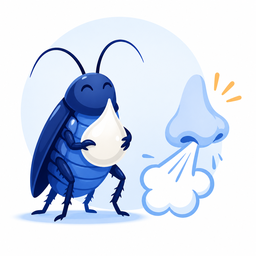
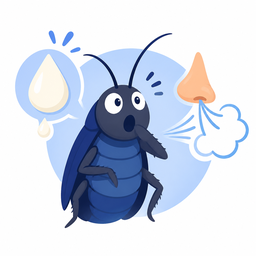
public sync from private eac44d2dcac4
Private-Source: eac44d2dcac4747da9b20761fc8d34ed62bbc04b

diff --git a/user_test/ig_nobel_2026_e2e_03/index.html b/user_test/ig_nobel_2026_e2e_03/index.html
@@ -1,4 +1,4 @@
-<!DOCTYPE html><html lang='ja'><head><meta charset='utf-8'><title>ゴキブリの乳に仰天、鼻の「フンッ」に納得 試聴ページ</title><meta name='viewport' content='width=device-width, initial-scale=1'><style>body{font-family:sans-serif;max-width:1100px;margin:1em auto;padding:0 1em;line-height:1.5}table{border-collapse:collapse;width:100%;margin-bottom:1.5em}th,td{border:1px solid #ccc;padding:6px;vertical-align:top;text-align:left}td.play{min-width:340px}td.play audio,audio{width:100%}.sec{color:#666;font-size:.85em}.script{background:#f6f6f6;padding:4px;margin:3px 0;font-size:.95em;white-space:pre-wrap}.kp td,.kp th{border:1px solid #ccc;padding:4px 10px}.combo{background:#eef6ff;padding:10px;border:1px solid #99c;margin-bottom:1em}.playall{font-size:1.1em;padding:8px 18px;margin-bottom:8px;cursor:pointer}.note{background:#fff8e0;padding:8px;border:1px solid #cb8;margin-bottom:1em}nav a{margin-right:1.2em;font-weight:bold}details.aux{background:#fafafa;border:1px solid #ddd;padding:6px 10px;margin:1em 0}</style><style>.lk1,.lk2,.lk3{font-size:inherit;color:inherit;background:none}.lk1{font-weight:700;text-decoration-line:underline;text-decoration-style:double;-webkit-text-decoration-line:underline;-webkit-text-decoration-style:double;text-underline-offset:3px}.lk2{font-weight:700;text-decoration-line:underline;text-decoration-style:solid;-webkit-text-decoration-line:underline;-webkit-text-decoration-style:solid;text-underline-offset:2px}.lk3{font-weight:inherit;text-decoration-line:underline;text-decoration-style:solid;-webkit-text-decoration-line:underline;-webkit-text-decoration-style:solid;text-underline-offset:2px}ul.lk-meaning{margin:4px 0 8px 1.2em;padding:0;font-size:.9em}p.lk-legend{font-size:.85em;margin:4px 0}</style></head><body><h1>ゴキブリの乳に仰天、鼻の「フンッ」に納得 試聴ページ</h1><nav><a href='#std'>Standard</a><a href='#adv'>Advanced</a></nav><div class='note'><b>状態: 完成版・ユーザー試聴待ち</b>(試聴PASSは未取得です)。上のリンクでレベルを切り替えられます。</div><p class="lk-legend">本文の下線: <strong class="lk1">太字+二重下線</strong> = 重要表現 / <strong class="lk2">太字+下線</strong> = 追加の解説つき表現 / <span class="lk3">下線のみ</span> = 意味を下の一覧で確認</p><p class='rpt-legend' style='font-size:12px;color:#444;margin:6px 0'>表示の見方: &#9208;=音声のChunk分割位置 / <span style='color:#c00000;font-weight:700;text-decoration:underline'>赤</span>=Local Rewrite(変更箇所。変更前後の英文は下の注記) / <span style='color:#0a2a6b;font-weight:600'>濃い青</span>=Fallback(適用範囲全体。Style名は下の注記)</p><h2 id='std'>Standard(通し全編 318秒)</h2><div class='combo'><button class='playall' data-target='main_std'>&#9654; Standard 全編を通し再生</button><br><audio id='main_std' controls preload='none' src='audio/ig_nobel_2026_standard.mp3'></audio></div><table><thead><tr><th>パート</th><th>音声</th><th>Script / Key Phrase</th></tr></thead><tbody><tr><td><b>Intro</b><br><span class='sec'>0.0秒〜 (10.7秒)</span><br><button class='jump' data-target='main_std' data-t='0.0'>全編のこの位置へ</button></td><td class='play'><audio controls preload='none' src='audio/std_00.mp3'></audio></td><td><span class='sec'>効果音・音楽(読み上げなし)</span></td></tr><tr><td><b>Welcome</b><br><span class='sec'>10.7秒〜 (1.9秒)</span><br><button class='jump' data-target='main_std' data-t='10.736'>全編のこの位置へ</button></td><td class='play'><audio controls preload='none' src='audio/std_01.mp3'></audio></td><td><span class='sec'>定型の案内音声</span></td></tr><tr><td><b>Topic intro</b><br><span class='sec'>13.1秒〜 (7.2秒)</span><br><button class='jump' data-target='main_std' data-t='13.126'>全編のこの位置へ</button></td><td class='play'><audio controls preload='none' src='audio/std_02.mp3'></audio></td><td><div class='script'>Today&#x27;s topic is Cockroach Milk Surprises Us, and <span class='rpt-lr' style='color:#c00000;font-weight:700;text-decoration:underline'>the Pff You Make When You Blow Your Nose</span>” Makes Sense.</div><div class='rpt-notes' style='font-size:12px;margin:2px 0 8px'><div class='rpt-note rpt-note-lr' style='color:#c00000;margin:2px 0'><b>Local Rewrite 適用</b>(範囲: Topic intro。この行の本文全体)<br>変更前: Today&#x27;s topic is Cockroach Milk Surprises Us, and <span class='rpt-lr-before' style='color:#c00000;text-decoration:line-through'>a Nose-Blowing Pff</span> Makes Sense.<br>変更後: Today&#x27;s topic is Cockroach Milk Surprises Us, and <span class='rpt-lr' style='color:#c00000;font-weight:700;text-decoration:underline'>the Pff You Make When You Blow Your Nose</span> Makes Sense.<br>変更語句: a Nose-Blowing Pff → the Pff You Make When You Blow Your Nose</div></div></td></tr><tr><td><b>Japanese title</b><br><span class='sec'>21.0秒〜 (4.0秒)</span><br><button class='jump' data-target='main_std' data-t='20.976'>全編のこの位置へ</button></td><td class='play'><audio controls preload='none' src='audio/std_03.mp3'></audio></td><td><div class='script'>ゴキブリの乳に仰天、鼻の「フンッ」に納得</div></td></tr><tr><td><b>Notification 1</b><br><span class='sec'>25.5秒〜 (2.0秒)</span><br><button class='jump' data-target='main_std' data-t='25.476'>全編のこの位置へ</button></td><td class='play'><audio controls preload='none' src='audio/std_04.mp3'></audio></td><td><span class='sec'>効果音・音楽(読み上げなし)</span></td></tr><tr><td><b>Preview intro</b><br><span class='sec'>27.9秒〜 (1.2秒)</span><br><button class='jump' data-target='main_std' data-t='27.916'>全編のこの位置へ</button></td><td class='play'><audio controls preload='none' src='audio/std_05.mp3'></audio></td><td><span class='sec'>定型の案内音声</span></td></tr><tr><td><b>Preview</b><br><span class='sec'>29.8秒〜 (16.6秒)</span><br><button class='jump' data-target='main_std' data-t='29.806'>全編のこの位置へ</button></td><td class='play'><audio controls preload='none' src='audio/std_06.mp3'></audio></td><td><div class='script'>イグ・ノーベル賞には、聞くと思わず笑ってしまう研究が登場します。でも、笑える題材を科学者が調べるのはなぜでしょうか。今回は、意外な研究が私たちに何を考えさせるのかを見ていきます。</div></td></tr><tr><td><b>Notification 2</b><br><span class='sec'>46.9秒〜 (2.0秒)</span><br><button class='jump' data-target='main_std' data-t='46.946'>全編のこの位置へ</button></td><td class='play'><audio controls preload='none' src='audio/std_07.mp3'></audio></td><td><span class='sec'>効果音・音楽(読み上げなし)</span></td></tr><tr><td><b>Key phrases intro</b><br><span class='sec'>49.4秒〜 (2.0秒)</span><br><button class='jump' data-target='main_std' data-t='49.386'>全編のこの位置へ</button></td><td class='play'><audio controls preload='none' src='audio/std_08.mp3'></audio></td><td><span class='sec'>定型の案内音声</span></td></tr><tr><td><b>Key Phrase 1</b><br><span class='sec'>51.9秒〜 (8.9秒)</span><br><button class='jump' data-target='main_std' data-t='51.886'>全編のこの位置へ</button></td><td class='play'><audio controls preload='none' src='audio/std_09.mp3'></audio></td><td><table class='kp'><tr><th>英語</th><th>日本語の意味</th></tr><tr><td>lean in</td><td>関心を向けて身を乗り出す</td></tr></table></td></tr><tr><td><b>Key Phrase 2</b><br><span class='sec'>60.8秒〜 (8.8秒)</span><br><button class='jump' data-target='main_std' data-t='60.766'>全編のこの位置へ</button></td><td class='play'><audio controls preload='none' src='audio/std_10.mp3'></audio></td><td><table class='kp'><tr><th>英語</th><th>日本語の意味</th></tr><tr><td>close to home</td><td>自分に関係が深く感じられる</td></tr></table></td></tr><tr><td><b>Key Phrase 3</b><br><span class='sec'>69.6秒〜 (7.5秒)</span><br><button class='jump' data-target='main_std' data-t='69.576'>全編のこの位置へ</button></td><td class='play'><audio controls preload='none' src='audio/std_11.mp3'></audio></td><td><table class='kp'><tr><th>英語</th><th>日本語の意味</th></tr><tr><td>feature</td><td>～を取り上げる</td></tr></table></td></tr><tr><td><b>Notification 3</b><br><span class='sec'>77.1秒〜 (2.0秒)</span><br><button class='jump' data-target='main_std' data-t='77.086'>全編のこの位置へ</button></td><td class='play'><audio controls preload='none' src='audio/std_12.mp3'></audio></td><td><span class='sec'>効果音・音楽(読み上げなし)</span></td></tr><tr><td><b>Full story intro</b><br><span class='sec'>79.5秒〜 (1.8秒)</span><br><button class='jump' data-target='main_std' data-t='79.526'>全編のこの位置へ</button></td><td class='play'><audio controls preload='none' src='audio/std_13.mp3'></audio></td><td><span class='sec'>定型の案内音声</span></td></tr><tr><td><b>Comment 1</b><br><span class='sec'>82.4秒〜 (6.1秒)</span><br><button class='jump' data-target='main_std' data-t='82.356'>全編のこの位置へ</button></td><td class='play'><audio controls preload='none' src='audio/std_14.mp3'></audio></td><td><div class='script'>ゴキブリのミルクについて、研究者たちが何を調べたのかに注目してください。</div></td></tr><tr><td><b>Full Story Part 1</b><br><span class='sec'>89.3秒〜 (73.7秒)</span><br><button class='jump' data-target='main_std' data-t='89.286'>全編のこの位置へ</button></td><td class='play'><audio controls preload='none' src='audio/std_15.mp3'></audio></td><td><div class='script'>Cockroach milk and how to blow your nose. Seeing these words together may make you ask, “Can these topics really go together?” Both were subjects of research <strong class="lk1" data-hl="p_556c98354e">featured</strong> at this year’s Ig Nobel Prize. The names make you laugh. Then you <strong class="lk1" data-hl="p_c520513e91">lean in</strong> to hear the story. So first, let’s look inside a cockroach’s belly. <span class='chunk-mark'>&#9208;</span>
+<!DOCTYPE html><html lang='ja'><head><meta charset='utf-8'><title>ゴキブリの乳に仰天、鼻の「フンッ」に納得 試聴ページ</title><meta name='viewport' content='width=device-width, initial-scale=1'><style>body{font-family:sans-serif;max-width:1100px;margin:1em auto;padding:0 1em;line-height:1.5}table{border-collapse:collapse;width:100%;margin-bottom:1.5em}th,td{border:1px solid #ccc;padding:6px;vertical-align:top;text-align:left}td.play{min-width:340px}td.play audio,audio{width:100%}.sec{color:#666;font-size:.85em}.script{background:#f6f6f6;padding:4px;margin:3px 0;font-size:.95em;white-space:pre-wrap}.kp td,.kp th{border:1px solid #ccc;padding:4px 10px}.combo{background:#eef6ff;padding:10px;border:1px solid #99c;margin-bottom:1em}.playall{font-size:1.1em;padding:8px 18px;margin-bottom:8px;cursor:pointer}.note{background:#fff8e0;padding:8px;border:1px solid #cb8;margin-bottom:1em}nav a{margin-right:1.2em;font-weight:bold}details.aux{background:#fafafa;border:1px solid #ddd;padding:6px 10px;margin:1em 0}</style><style>.lk1,.lk2,.lk3{font-size:inherit;color:inherit;background:none}.lk1{font-weight:700;text-decoration-line:underline;text-decoration-style:double;-webkit-text-decoration-line:underline;-webkit-text-decoration-style:double;text-underline-offset:3px}.lk2{font-weight:700;text-decoration-line:underline;text-decoration-style:solid;-webkit-text-decoration-line:underline;-webkit-text-decoration-style:solid;text-underline-offset:2px}.lk3{font-weight:inherit;text-decoration-line:underline;text-decoration-style:solid;-webkit-text-decoration-line:underline;-webkit-text-decoration-style:solid;text-underline-offset:2px}ul.lk-meaning{margin:4px 0 8px 1.2em;padding:0;font-size:.9em}p.lk-legend{font-size:.85em;margin:4px 0}</style></head><body><h1>ゴキブリの乳に仰天、鼻の「フンッ」に納得 試聴ページ</h1><nav><a href='#std'>Standard</a><a href='#adv'>Advanced</a></nav><div class='note'><b>状態: 完成版・ユーザー試聴待ち</b>(試聴PASSは未取得です)。上のリンクでレベルを切り替えられます。</div><p class="lk-legend">本文の下線: <strong class="lk1">太字+二重下線</strong> = 重要表現 / <strong class="lk2">太字+下線</strong> = 追加の解説つき表現 / <span class="lk3">下線のみ</span> = 意味を下の一覧で確認</p><p class='rpt-legend' style='font-size:12px;color:#444;margin:6px 0'>表示の見方: &#9208;=音声のChunk分割位置 / <span style='color:#c00000;font-weight:700;text-decoration:underline'>赤</span>=Local Rewrite(変更箇所。変更前後の英文は下の注記) / <span style='color:#0a2a6b;font-weight:600'>濃い青</span>=Fallback(適用範囲全体。Style名は下の注記)</p><h2 id='std'>Standard(通し全編 318秒)</h2><div class='combo'><button class='playall' data-target='main_std'>&#9654; Standard 全編を通し再生</button><br><audio id='main_std' controls preload='none' src='audio/ig_nobel_2026_standard.mp3'></audio></div><table><thead><tr><th>パート</th><th>音声</th><th>Script / Key Phrase</th></tr></thead><tbody><tr><td><b>Intro</b><br><span class='sec'>0.0秒〜 (10.7秒)</span><br><button class='jump' data-target='main_std' data-t='0.0'>全編のこの位置へ</button></td><td class='play'><audio controls preload='none' src='audio/std_00.mp3'></audio></td><td><span class='sec'>効果音・音楽(読み上げなし)</span></td></tr><tr><td><b>Welcome</b><br><span class='sec'>10.7秒〜 (1.9秒)</span><br><button class='jump' data-target='main_std' data-t='10.736'>全編のこの位置へ</button></td><td class='play'><audio controls preload='none' src='audio/std_01.mp3'></audio></td><td><span class='sec'>定型の案内音声</span></td></tr><tr><td><b>Topic intro</b><br><span class='sec'>13.1秒〜 (7.2秒)</span><br><button class='jump' data-target='main_std' data-t='13.126'>全編のこの位置へ</button></td><td class='play'><audio controls preload='none' src='audio/std_02.mp3'></audio></td><td><div class='script'>Today&#x27;s topic is Cockroach Milk Surprises Us, and <span class='rpt-lr' style='color:#c00000;font-weight:700;text-decoration:underline'>the Pff You Make When You Blow Your Nose</span> Makes Sense.</div><div class='rpt-notes' style='font-size:12px;margin:2px 0 8px'><div class='rpt-note rpt-note-lr' style='color:#c00000;margin:2px 0'><b>Local Rewrite 適用</b>(範囲: Topic intro。この行の本文全体)<br>変更前: Today&#x27;s topic is Cockroach Milk Surprises Us, and <span class='rpt-lr-before' style='color:#c00000;text-decoration:line-through'>a Nose-Blowing Pff</span> Makes Sense.<br>変更後: Today&#x27;s topic is Cockroach Milk Surprises Us, and <span class='rpt-lr' style='color:#c00000;font-weight:700;text-decoration:underline'>the Pff You Make When You Blow Your Nose</span> Makes Sense.<br>変更語句: a Nose-Blowing Pff → the Pff You Make When You Blow Your Nose</div></div></td></tr><tr><td><b>Japanese title</b><br><span class='sec'>21.0秒〜 (4.0秒)</span><br><button class='jump' data-target='main_std' data-t='20.976'>全編のこの位置へ</button></td><td class='play'><audio controls preload='none' src='audio/std_03.mp3'></audio></td><td><div class='script'>ゴキブリの乳に仰天、鼻の「フンッ」に納得</div></td></tr><tr><td><b>Notification 1</b><br><span class='sec'>25.5秒〜 (2.0秒)</span><br><button class='jump' data-target='main_std' data-t='25.476'>全編のこの位置へ</button></td><td class='play'><audio controls preload='none' src='audio/std_04.mp3'></audio></td><td><span class='sec'>効果音・音楽(読み上げなし)</span></td></tr><tr><td><b>Preview intro</b><br><span class='sec'>27.9秒〜 (1.2秒)</span><br><button class='jump' data-target='main_std' data-t='27.916'>全編のこの位置へ</button></td><td class='play'><audio controls preload='none' src='audio/std_05.mp3'></audio></td><td><span class='sec'>定型の案内音声</span></td></tr><tr><td><b>Preview</b><br><span class='sec'>29.8秒〜 (16.6秒)</span><br><button class='jump' data-target='main_std' data-t='29.806'>全編のこの位置へ</button></td><td class='play'><audio controls preload='none' src='audio/std_06.mp3'></audio></td><td><div class='script'>イグ・ノーベル賞には、聞くと思わず笑ってしまう研究が登場します。でも、笑える題材を科学者が調べるのはなぜでしょうか。今回は、意外な研究が私たちに何を考えさせるのかを見ていきます。</div></td></tr><tr><td><b>Notification 2</b><br><span class='sec'>46.9秒〜 (2.0秒)</span><br><button class='jump' data-target='main_std' data-t='46.946'>全編のこの位置へ</button></td><td class='play'><audio controls preload='none' src='audio/std_07.mp3'></audio></td><td><span class='sec'>効果音・音楽(読み上げなし)</span></td></tr><tr><td><b>Key phrases intro</b><br><span class='sec'>49.4秒〜 (2.0秒)</span><br><button class='jump' data-target='main_std' data-t='49.386'>全編のこの位置へ</button></td><td class='play'><audio controls preload='none' src='audio/std_08.mp3'></audio></td><td><span class='sec'>定型の案内音声</span></td></tr><tr><td><b>Key Phrase 1</b><br><span class='sec'>51.9秒〜 (8.9秒)</span><br><button class='jump' data-target='main_std' data-t='51.886'>全編のこの位置へ</button></td><td class='play'><audio controls preload='none' src='audio/std_09.mp3'></audio></td><td><table class='kp'><tr><th>英語</th><th>日本語の意味</th></tr><tr><td>lean in</td><td>関心を向けて身を乗り出す</td></tr></table></td></tr><tr><td><b>Key Phrase 2</b><br><span class='sec'>60.8秒〜 (8.8秒)</span><br><button class='jump' data-target='main_std' data-t='60.766'>全編のこの位置へ</button></td><td class='play'><audio controls preload='none' src='audio/std_10.mp3'></audio></td><td><table class='kp'><tr><th>英語</th><th>日本語の意味</th></tr><tr><td>close to home</td><td>自分に関係が深く感じられる</td></tr></table></td></tr><tr><td><b>Key Phrase 3</b><br><span class='sec'>69.6秒〜 (7.5秒)</span><br><button class='jump' data-target='main_std' data-t='69.576'>全編のこの位置へ</button></td><td class='play'><audio controls preload='none' src='audio/std_11.mp3'></audio></td><td><table class='kp'><tr><th>英語</th><th>日本語の意味</th></tr><tr><td>feature</td><td>～を取り上げる</td></tr></table></td></tr><tr><td><b>Notification 3</b><br><span class='sec'>77.1秒〜 (2.0秒)</span><br><button class='jump' data-target='main_std' data-t='77.086'>全編のこの位置へ</button></td><td class='play'><audio controls preload='none' src='audio/std_12.mp3'></audio></td><td><span class='sec'>効果音・音楽(読み上げなし)</span></td></tr><tr><td><b>Full story intro</b><br><span class='sec'>79.5秒〜 (1.8秒)</span><br><button class='jump' data-target='main_std' data-t='79.526'>全編のこの位置へ</button></td><td class='play'><audio controls preload='none' src='audio/std_13.mp3'></audio></td><td><span class='sec'>定型の案内音声</span></td></tr><tr><td><b>Comment 1</b><br><span class='sec'>82.4秒〜 (6.1秒)</span><br><button class='jump' data-target='main_std' data-t='82.356'>全編のこの位置へ</button></td><td class='play'><audio controls preload='none' src='audio/std_14.mp3'></audio></td><td><div class='script'>ゴキブリのミルクについて、研究者たちが何を調べたのかに注目してください。</div></td></tr><tr><td><b>Full Story Part 1</b><br><span class='sec'>89.3秒〜 (73.7秒)</span><br><button class='jump' data-target='main_std' data-t='89.286'>全編のこの位置へ</button></td><td class='play'><audio controls preload='none' src='audio/std_15.mp3'></audio></td><td><div class='script'>Cockroach milk and how to blow your nose. Seeing these words together may make you ask, “Can these topics really go together?” Both were subjects of research <strong class="lk1" data-hl="p_556c98354e">featured</strong> at this year’s Ig Nobel Prize. The names make you laugh. Then you <strong class="lk1" data-hl="p_c520513e91">lean in</strong> to hear the story. So first, let’s look inside a cockroach’s belly. <span class='chunk-mark'>&#9208;</span>
 
 The Chemistry Prize went to researchers who studied protein in cockroach milk. They studied one kind of cockroach. It carries its young inside its body, then gives birth to them. The mother makes liquid milk, and her young drink it inside her belly. It is surprising that she makes milk. But the story gets even more surprising. <span class='chunk-mark'>&#9208;</span>
 

diff --git a/user_test/ig_nobel_2026_e2e_03/enduser/app.js b/user_test/ig_nobel_2026_e2e_03/enduser/app.js
@@ -194,6 +194,10 @@
     }
     for (var i = 0; i < qt.length; i++) rec(0, i, [], 0);
     var seen = {}, uniq = hits.filter(function (h) { var k = h.map(function (r) { return r[0]; }).join(','); if (seen[k]) return false; seen[k] = 1; return true; });
+    if (uniq.length > 1 && heading.indexOf('-') < 0) {   // rev01-v EM14: 見出しにハイフンが無いとき、ハイフン連結の複合語(behind-the-scenes)の候補を除外して絞り込む(残りが1件のときだけ採用。0件・2件以上は従来どおり曖昧)
+      var sp = uniq.filter(function (h) { return h.every(function (r, i) { return i === 0 || text.slice(h[i - 1][1], r[0]).indexOf('-') < 0; }); });
+      if (sp.length === 1) uniq = sp;
+    }
     if (uniq.length !== 1) return { n: uniq.length, ranges: [] };
     var out = [], cur = null, prevEnd = -1;   // 隣接トークン(間が空白のみ)は1つの太字にまとめる
     uniq[0].forEach(function (r) { if (cur && /^\s*$/.test(text.slice(prevEnd, r[0]))) cur[1] = r[1]; else { cur = [r[0], r[1]]; out.push(cur); } prevEnd = r[1]; });

diff --git a/user_test/ig_nobel_2026_e2e_03/enduser/index.html b/user_test/ig_nobel_2026_e2e_03/enduser/index.html
@@ -2,12 +2,12 @@
 <html lang="ja">
 <head>
 <meta charset="utf-8">
-<meta name="build-id" content="rev01-u">
+<meta name="build-id" content="rev01-v">
 <meta name="viewport" content="width=device-width,initial-scale=1,viewport-fit=cover">
 <title>English Your Way · 記事視聴ページ</title>
-<link rel="stylesheet" href="style.css?v=rev01-u">
+<link rel="stylesheet" href="style.css?v=rev01-v">
 </head>
-<body data-build="rev01-u" class="capon">
+<body data-build="rev01-v" class="capon">
 <div class="wrap">
  <section class="hero"><div class="eyebrow" id="eyebrow">English Your Way</div><h1 id="jaTitle">Loading…</h1><div class="sub" id="enTitle"></div></section>
  <div class="notice" id="notice" hidden></div>
@@ -32,6 +32,6 @@
  </div>
 </div>
 <audio id="aud" preload="metadata"></audio>
-<script src="app.js?v=rev01-u"></script>
+<script src="app.js?v=rev01-v"></script>
 </body>
 </html>
